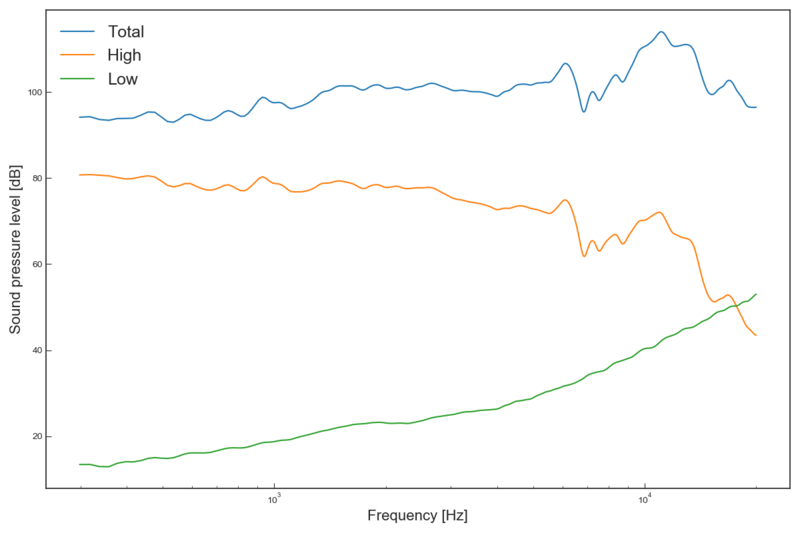
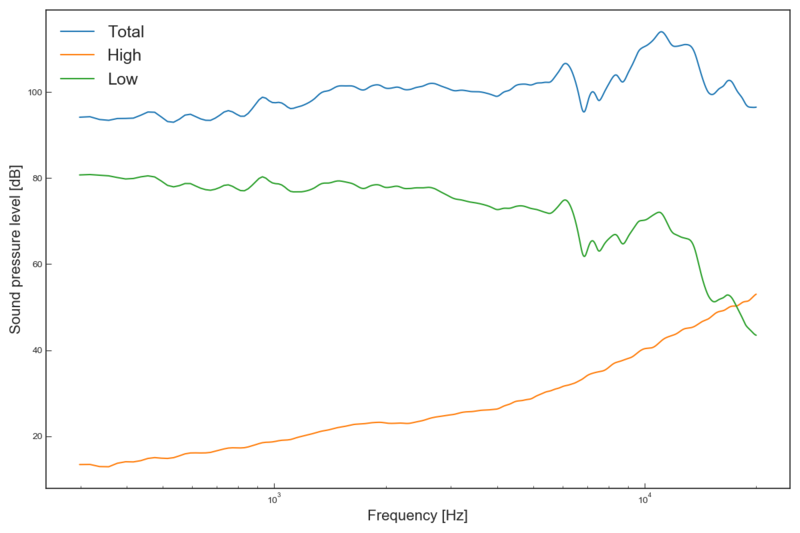
Fix labels.

diff --git a/crossover/optimize.py b/crossover/optimize.py
@@ -156,7 +156,7 @@ def optimiseCrossover(highFileName = 'data/AN25F-4@0.frd',
     nearestHighRes = availableComponents.nearestRes(np.exp(highRes))
     nearestCap = availableComponents.nearestCap(np.exp(cap))
 
-    co, hi, lo = crossover.applyCrossover(nearestRes[1], nearestCap[1], nearestHighRes[1])
+    co, lo, hi = crossover.applyCrossover(nearestRes[1], nearestCap[1], nearestHighRes[1])
 
     plt.plot(crossover.frequencies, co, label = 'Total')
     plt.plot(crossover.frequencies, hi, label = 'High')
